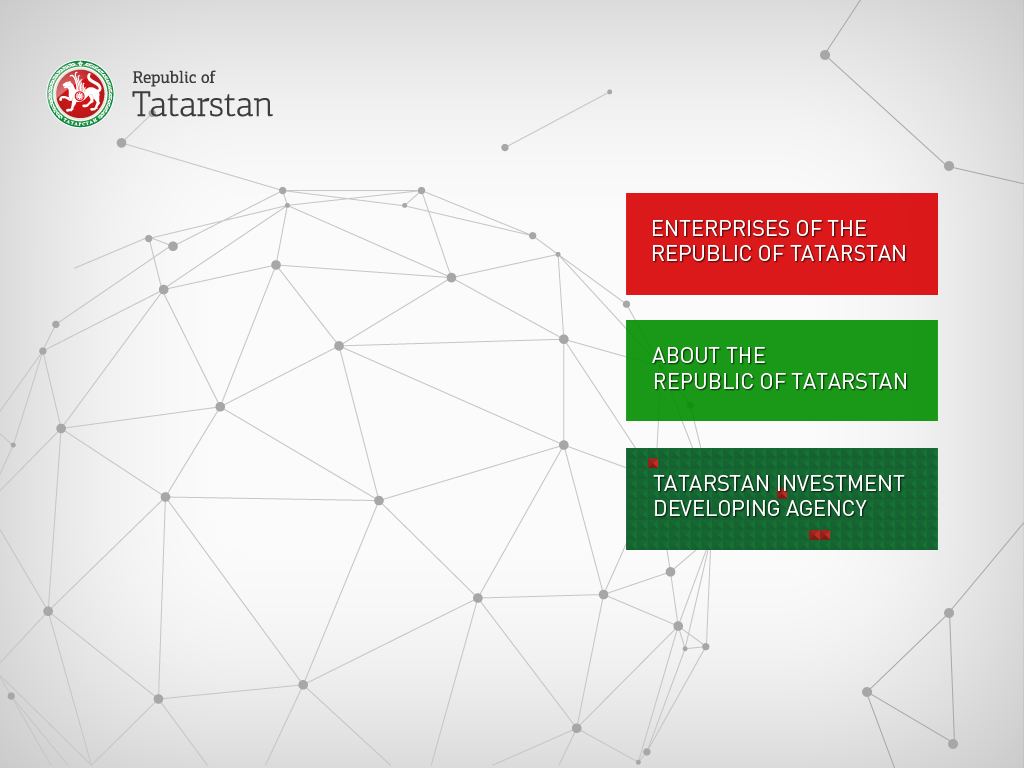
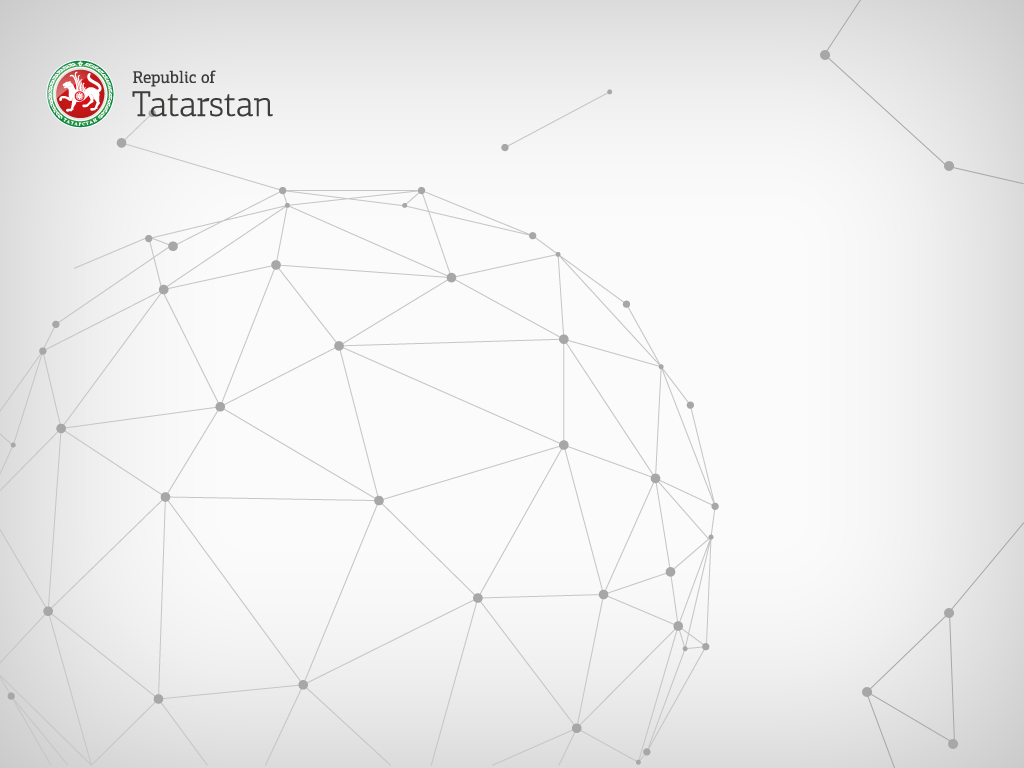
up index page

Changed region(s): [[0.5938, 0.25, 0.9375, 0.7188]]

diff --git a/presentation/index.html b/presentation/index.html
@@ -7,9 +7,242 @@
 	</head>
 	<body>
 		<div id="content">
-			<div id="main">
-				<div id="to-enterprises"></div>
+			<div id="canvas">
+				<ul>
+					<li class="tatarstan-universiada">
+						<ul>
+							<li class="slide-0">
+								<div id="main">
+									<div class="navigation">
+										<div class="red-lbl"><a href="#" title="ENTERPRISES OF THE REPUBLIC OF TATARSTAN">ENTERPRISES OF THE REPUBLIC OF TATARSTAN</a></div>
+										<div class="green-lbl"><a href="#" title="ABOUT THE REPUBLIC OF TATARSTAN">ABOUT THE REPUBLIC OF TATARSTAN</a></div>
+										<div class="green-r-lbl"><a href="#" title="TATARSTAN INVESTMENT DEVELOPING AGENCY">TATARSTAN INVESTMENT DEVELOPING AGENCY</a></div>
+									</div>
+								</div>
+							</li>
+<li class="slide-01">
+						<h1 class="title">ABOUT THE <br/> REPUBLIC OF TATARSTAN</h1>
+						<p class="m-header m-header-01">From «Bugulma Aviation Enterprise» to «AK BARS AERO»</p>
+						<p class="text text-01">In 2005 «Bugulma Aviation Enterprise» joined the «Holding Company «Ak Bars» which gave a new impulse to the <br /> development of the airline.</p>
+						<p class="text text-02">On the 29th of January 2010 one of the best transportation enterprises in the Republic of Tatarstan got a new <br /> name – «AK BARS AERO».  </p>
 
+						<p class="m-header m-header-02">Aircraft Stock</p>
+						<p class="list-item list-item-01">Within 18 months AK BARS AERO bought and has been operating 7 regional passenger aircraft CRJ-200LR by the <br /> Canadian corporation Bombardier. </p>
+						<p class="list-item list-item-02">By the end of 2012 the CRJ-200 stock is planned to be expanded to 15 units.</p>
+						<p class="list-item list-item-03">The airline has an up-to-date technical base for maintenance of CRJ-200 and trained qualified personnel. The line <br /> maintenance bases of the airline are located at the airports of Bugulma and Kazan. </p>
+					</li>
+
+					<li class="slide-02">
+						<h1 class="title">MACROECONOMIC INDICATORS</h1>
+						<h2 class="small-title">ABOUT THE REPUBLIC OF TATARSTAN</h2>
+
+						<p class="m-header m-header-01">From «Bugulma Aviation Enterprise» to «AK BARS AERO»</p>
+						<p class="text text-01">In 2005 «Bugulma Aviation Enterprise» joined the «Holding Company «Ak Bars» which gave a new impulse to the <br /> development of the airline.</p>
+						<p class="text text-02">On the 29th of January 2010 one of the best transportation enterprises in the Republic of Tatarstan got a new <br /> name – «AK BARS AERO».  </p>
+
+						<p class="m-header m-header-02">Aircraft Stock</p>
+						<p class="list-item list-item-01">Within 18 months AK BARS AERO bought and has been operating 7 regional passenger aircraft CRJ-200LR by the <br /> Canadian corporation Bombardier. </p>
+						<p class="list-item list-item-02">By the end of 2012 the CRJ-200 stock is planned to be expanded to 15 units.</p>
+						<p class="list-item list-item-03">The airline has an up-to-date technical base for maintenance of CRJ-200 and trained qualified personnel. The line <br /> maintenance bases of the airline are located at the airports of Bugulma and Kazan. </p>
+
+						<a class="home" href="/"></a>
+					</li>
+
+					<li class="slide-03">
+						<h1 class="title">INDUSTRIAL POTENTIAL</h1>
+						<h2 class="small-title">ABOUT THE REPUBLIC OF TATARSTAN</h2>
+
+						<p class="m-header m-header-01">From «Bugulma Aviation Enterprise» to «AK BARS AERO»</p>
+						<p class="text text-01">In 2005 «Bugulma Aviation Enterprise» joined the «Holding Company «Ak Bars» which gave a new impulse to the <br /> development of the airline.</p>
+						<p class="text text-02">On the 29th of January 2010 one of the best transportation enterprises in the Republic of Tatarstan got a new <br /> name – «AK BARS AERO».  </p>
+
+						<p class="m-header m-header-02">Aircraft Stock</p>
+						<p class="list-item list-item-01">Within 18 months AK BARS AERO bought and has been operating 7 regional passenger aircraft CRJ-200LR by the <br /> Canadian corporation Bombardier. </p>
+						<p class="list-item list-item-02">By the end of 2012 the CRJ-200 stock is planned to be expanded to 15 units.</p>
+						<p class="list-item list-item-03">The airline has an up-to-date technical base for maintenance of CRJ-200 and trained qualified personnel. The line <br /> maintenance bases of the airline are located at the airports of Bugulma and Kazan. </p>
+
+						<a class="home" href="/"></a>
+                       </li>
+                      <li class="slide-04">
+						<h1 class="title">INVESTMENT POTENTIAL</h1>
+						<h2 class="small-title">ABOUT THE REPUBLIC OF TATARSTAN</h2>
+
+						<p class="m-header m-header-01">From «Bugulma Aviation Enterprise» to «AK BARS AERO»</p>
+						<p class="text text-01">In 2005 «Bugulma Aviation Enterprise» joined the «Holding Company «Ak Bars» which gave a new impulse to the <br /> development of the airline.</p>
+						<p class="text text-02">On the 29th of January 2010 one of the best transportation enterprises in the Republic of Tatarstan got a new <br /> name – «AK BARS AERO».  </p>
+
+						<p class="m-header m-header-02">Aircraft Stock</p>
+						<p class="list-item list-item-01">Within 18 months AK BARS AERO bought and has been operating 7 regional passenger aircraft CRJ-200LR by the <br /> Canadian corporation Bombardier. </p>
+						<p class="list-item list-item-02">By the end of 2012 the CRJ-200 stock is planned to be expanded to 15 units.</p>
+						<p class="list-item list-item-03">The airline has an up-to-date technical base for maintenance of CRJ-200 and trained qualified personnel. The line <br /> maintenance bases of the airline are located at the airports of Bugulma and Kazan. </p>
+
+						<a class="home" href="/"></a>
+                       </li>
+                   	</ul>
+                    </li>
+                     <li class="tatarstan-universiada">
+                    <ul>
+                     <li class="slide-05">
+						<h1 class="title">INNOVATIVE ACTIVITIES</h1>
+						<h2 class="small-title">ABOUT THE REPUBLIC OF TATARSTAN</h2>
+
+						<p class="m-header m-header-01">From «Bugulma Aviation Enterprise» to «AK BARS AERO»</p>
+						<p class="text text-01">In 2005 «Bugulma Aviation Enterprise» joined the «Holding Company «Ak Bars» which gave a new impulse to the <br /> development of the airline.</p>
+						<p class="text text-02">On the 29th of January 2010 one of the best transportation enterprises in the Republic of Tatarstan got a new <br /> name – «AK BARS AERO».  </p>
+
+						<p class="m-header m-header-02">Aircraft Stock</p>
+						<p class="list-item list-item-01">Within 18 months AK BARS AERO bought and has been operating 7 regional passenger aircraft CRJ-200LR by the <br /> Canadian corporation Bombardier. </p>
+						<p class="list-item list-item-02">By the end of 2012 the CRJ-200 stock is planned to be expanded to 15 units.</p>
+						<p class="list-item list-item-03">The airline has an up-to-date technical base for maintenance of CRJ-200 and trained qualified personnel. The line <br /> maintenance bases of the airline are located at the airports of Bugulma and Kazan. </p>
+
+						<a class="home" href="/"></a>
+                       </li>
+                       <li class="slide-06">
+						<h1 class="title">Air Transportation</h1>
+						<h2 class="sub-title">PRESENTATION</h2>
+
+						<div class="video-ico"></div>
+						<div id="publicy-held-company">
+							<div class="gallery-item video gallery-item-01">
+								<a href=""></a>
+							</div>
+							<div class="gallery-item video gallery-item-02">
+								<a href=""></a>
+							</div>
+							<div class="gallery-item video gallery-item-03">
+								<a href=""></a>
+							</div>
+							<div class="gallery-item video gallery-item-04">
+								<a href=""></a>
+							</div>
+						</div>
+						<a class="home" href="/"></a>
+                        </li>
+                        <li class="slide-07">
+							<h1 class="title">UNIVERSIADE KAZAN 2013</h1>
+							
+							
+							<p class="text text-01">The mission of the Kazan Universiade is to gather young athletes from all 
+								over the world in the city of unique multiethnic heritage.</p>
+								<div class="img-item"><img src="assets/pages/tatarstan-universiada/stadion.png" alt="" /></div>
+							<p class="text text-02">To continue Russian sport traditions, become a launch pad for future 
+							generations of athletes.</p>
+							<p class="text text-03">To make the life of Kazan citizens more interesting and convenient.</p>
+							<p class="text text-04">Give our children a possibility to do any kind of sport they like, to lead a 
+healthy way of life.</p>
+							<p class="text text-05">To make a significant contribution into the creation of Russia’s positive 
+image in the world.</p>
+
+
+							
+
+							<a class="home" href="/"></a>
+	                       </li>
+	                        <li class="slide-08">
+							<h1 class="title">UNIVERSIADE KAZAN 2013</h1>
+							
+							
+							<p class="text text-01">In July 6 – 17, 2013 the capital of the Republic of Tatarstan, Kazan city, renowned 
+for its hospitality, will become the centre of the key international multi-sport 
+event – the XXVII World Summer Universiade.</p>
+							<p class="text text-02">More than 13500 athletes and official delegation members from 170 countries 
+of the world as well as more than 1500 media representatives are expected to 
+arrive in Kazan. </p>
+							<p class="text text-03">About 100 thousand tourists and fans from Russia and abroad will visit Kazan 
+both to support their countries and get to know a millennial historical heritage 
+of the city, its rich culture and modern infrastructure.</p>
+							<p class="text text-04">Uni – the winged snow leopard kitten has become the mascot of the 
+Universiade 2013. Winged snow leopard is a national symbol of Tatarstan and 
+it appears on the emblem of the Republic.
+</p>
+							<p class="text text-05">The brand sign of the XXVII World University Games inspired by a tulip – an essential 
+element of a traditional Tatar ornament – is a symbol of spring, youth and 
+development, joy and happiness. </p>
+
+
+							
+							<a class="more-max" href="javascript:toggle();"></a>
+							<a class="home" href="javascript:;"></a>
+	                       <div id="more-details" style="display:none;" class="more-text">
+	                       		<div class="subwrapper">
+		                       		<div class="header-top">
+		                       			<h1>UNIVERSIADE KAZAN 2013</h1></h1>
+		                       			<a href="javascript:toggle();" class="closebtn"></a>
+		                       		</div>
+		                       		<div class="text-body" id="iscroll">
+		                       			<p>n July 6 – 17, 2013 the capital of the Republic of Tatarstan, Kazan city, renowned for its hospitality, will 
+become the centre of the key international multi-sport event – the XXVII World Summer Universiade.</p>
+		                       			<p>More than 13500 athletes and official delegation members from 170 countries of the world as well as 
+more than 1500 media representatives are expected to arrive in Kazan. </p>
+		                       			<p>About 100 thousand tourists and fans from Russia and abroad will visit Kazan both to support their 
+countries and get to know a millennial historical heritage of the city, its rich culture and modern 
+infrastructure.</p>
+		                       			<p>Uni – the winged snow leopard kitten has become the mascot of the Universiade 2013. Winged snow 
+leopard is a national symbol of Tatarstan and it appears on the emblem of the Republic.</p>
+		                       			<p>The brand sign of the XXVII World University Games inspired by a tulip – an essential element of a 
+traditional Tatar ornament – is a symbol of spring, youth and development, joy and happiness.</p>
+		                       			<p>The Latin letter “U” is clearly recognized in the brand sign as well as five multi-coloured stars which 
+symbolize the five continents.
+</p>
+		                       			<p>The motto of KazanUniversiade is “U are the world”. As the Universiade original brand sign is 
+represented by the letter “U”, the motto may be interpreted in two ways: “You are the World” 
+and “Universiade is the whole World”. </p>
+		                       			<p>The motto of KazanUniversiade is “U are the world”. As the Universiade original brand sign is 
+represented by the letter “U”, the motto may be interpreted in two ways: “You are the World” 
+and “Universiade is the whole World”. </p>
+		                       			<p>The motto of KazanUniversiade is “U are the world”. As the Universiade original brand sign is 
+represented by the letter “U”, the motto may be interpreted in two ways: “You are the World” 
+and “Universiade is the whole World”. </p>
+		                       			<p>The motto of KazanUniversiade is “U are the world”. As the Universiade original brand sign is 
+represented by the letter “U”, the motto may be interpreted in two ways: “You are the World” 
+and “Universiade is the whole World”. </p>
+		                       			<p>The motto of KazanUniversiade is “U are the world”. As the Universiade original brand sign is 
+represented by the letter “U”, the motto may be interpreted in two ways: “You are the World” 
+and “Universiade is the whole World”. </p>
+		                       			<p>The motto of KazanUniversiade is “U are the world”. As the Universiade original brand sign is 
+represented by the letter “U”, the motto may be interpreted in two ways: “You are the World” 
+and “Universiade is the whole World”. </p>
+		                       			<p>The motto of KazanUniversiade is “U are the world”. As the Universiade original brand sign is 
+represented by the letter “U”, the motto may be interpreted in two ways: “You are the World” 
+and “Universiade is the whole World”. </p>
+		                       			<p>The motto of KazanUniversiade is “U are the world”. As the Universiade original brand sign is 
+represented by the letter “U”, the motto may be interpreted in two ways: “You are the World” 
+and “Universiade is the whole World”. </p>
+		                       			<p>The motto of KazanUniversiade is “U are the world”. As the Universiade original brand sign is 
+represented by the letter “U”, the motto may be interpreted in two ways: “You are the World” 
+and “Universiade is the whole World”. </p>
+		                       			<p>The motto of KazanUniversiade is “U are the world”. As the Universiade original brand sign is 
+represented by the letter “U”, the motto may be interpreted in two ways: “You are the World” 
+and “Universiade is the whole World”. </p>
+		                       		</div>
+	                       		</div>
+	                       	</div>
+	                       </li>
+	                        <li class="slide-09">
+						<h1 class="title">VIDEO PRESENTATIONS</h1>
+						<h2 class="sub-title">UNIVERSIADE KAZAN 2013</h2>
+
+						<div class="video-ico"></div>
+						<div id="publicy-held-company">
+							<div class="gallery-item video gallery-item-01">
+								<a href=""></a>
+							</div>
+							<div class="gallery-item video gallery-item-02">
+								<a href=""></a>
+							</div>
+							<div class="gallery-item video gallery-item-03">
+								<a href=""></a>
+							</div>
+							<div class="gallery-item video gallery-item-04">
+								<a href=""></a>
+							</div>
+						</div>
+						<a class="home" href="/"></a>
+                        </li>
+                    	</ul>
+                	</li>
+            		
+            	</ul>
 			</div>
 		</div>
 
@@ -17,7 +250,38 @@
 		<script src="js/hammer.js" type="text/javascript"></script>
 		<script src="js/jquery.hammer.js" type="text/javascript"></script>
 		<script src="js/jquery.lightbox-0.5.pack.js" type="text/javascript"></script>
+		<script src="js/iscroll.js" type="text/javascript"></script>
 		<script src="js/application.js" type="text/javascript"></script>
 
+		<script type="text/javascript">
+            var myScroll;
+			function loaded() {
+				myScroll = new iScroll('iscroll');
+			}
+			document.addEventListener('DOMContentLoaded', loaded, false);
+			
+
+			function toggle() {
+				var ele = document.getElementById("more-details");
+				if(ele.style.display == "block") {
+	    			ele.style.display = "none";
+	  			} else {
+					ele.style.display = "block";
+				}
+			}
+
+
+            $(function() {
+                new Desplazar($('#canvas'), { direction: Desplazar.VERTICAL })
+
+                $('#canvas > ul > li').each(function(idx, item) {
+                    new Desplazar($(item), { direction: Desplazar.HORIZONTAL });
+                });
+				$('#publicy-held-company a').lightBox({
+					imageBtnPrev: 'assets/gallery/prev_min.png',
+					imageBtnNext: 'assets/gallery/next_min.png'
+				});
+			});
+		</script>
 	</body>
 </html>

diff --git a/presentation/css/screen.css b/presentation/css/screen.css
@@ -65,6 +65,41 @@
 	position: relative;
     overflow: hidden;
 }
+.navigation {
+	position: absolute;
+	right:86px;
+	top:193px;
+}
+.navigation div a {
+	font-family: "DINPro-Regular", "MS Trebuchet", sans-serif;
+	font-size:22px;
+	color:#fff;
+	text-decoration:none;
+	text-shadow: 0px 1px 1px rgba(0, 0, 0, 0.75);
+	padding:25px;
+	padding-top: 20px;
+	padding-bottom: 28px;
+	display: block;
+	line-height:1.1;
+}
+#main .navigation div {
+	padding-left:0;
+	width:312px;
+	margin-bottom:25px;
+	display:list-style;
+	position: relative;
+	top:auto;
+	bottom:auto;
+}
+.navigation div.red-lbl{
+	background: url(../assets/pages/main/red-lbl.png) no-repeat 0 0;
+}
+.navigation div.green-lbl{
+	background: url(../assets/pages/main/green-lbl.png) no-repeat 0 0;
+}
+.navigation div.green-r-lbl{
+	background: url(../assets/pages/main/green-r-lbl.png) no-repeat 0 0;
+}
 
 .slide-01 {
 
